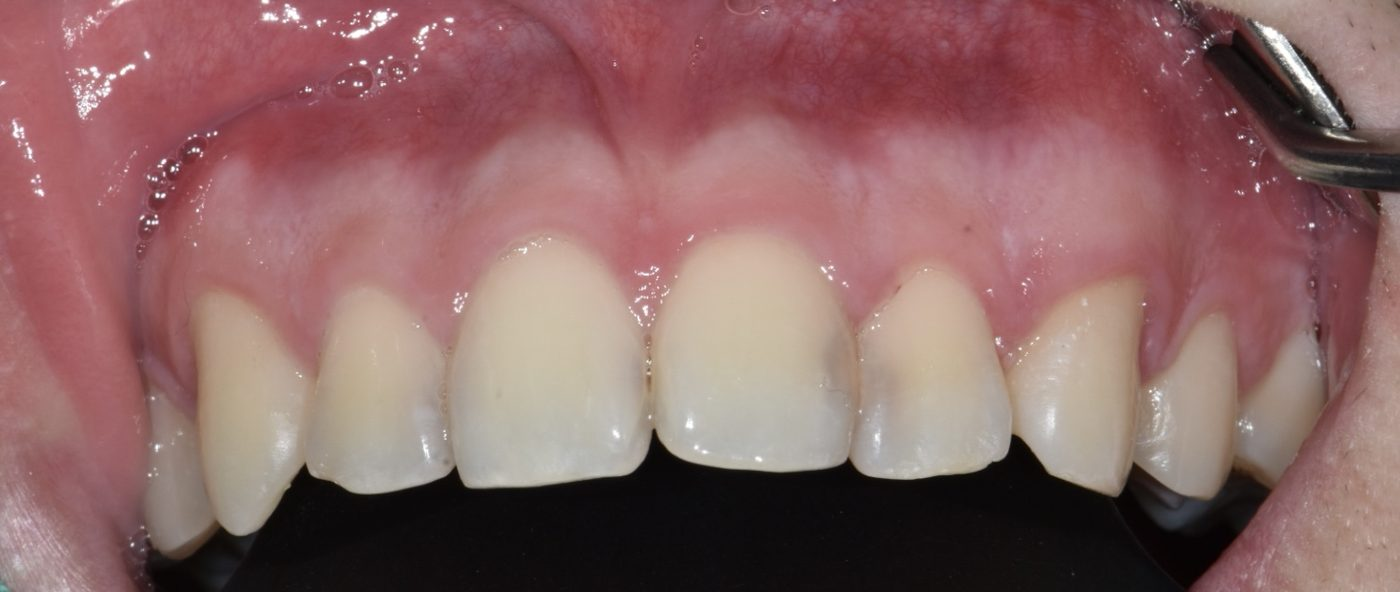
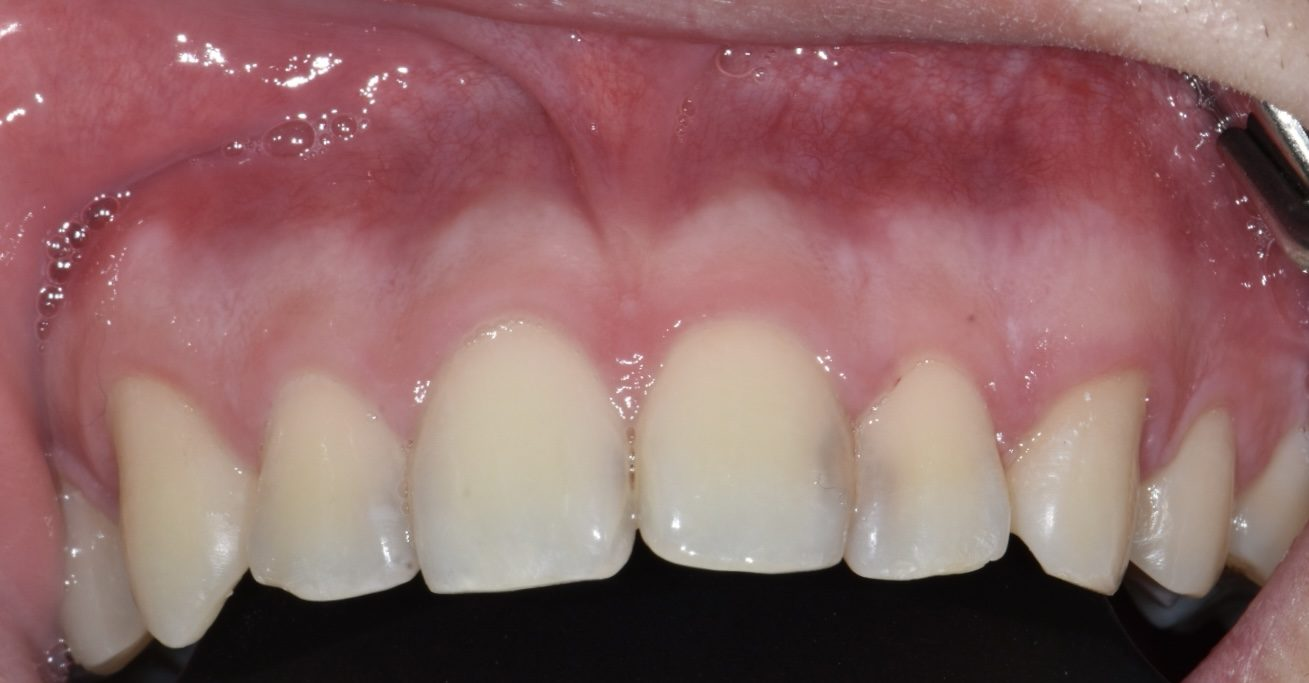
두 번째 증례 사진 교체, 틀니는 국군병원 연결로 변경
Claude-Session: https://claude.ai/code/session_01R7kTzugY8281QtGopL2eK7

diff --git a/index.html b/index.html
@@ -360,8 +360,8 @@
           <div class="feature__cases">
             <figure><img src="photos/caries-1-before.jpg" alt="치료 전: 상악 전치부 우식" width="1220" height="752" loading="lazy"><figcaption>치료 전</figcaption></figure>
             <figure><img src="photos/caries-1-after.jpg" alt="치료 후: 레진 수복 완료" width="1400" height="852" loading="lazy"><figcaption>치료 후</figcaption></figure>
-            <figure><img src="photos/caries-2-before.jpg" alt="치료 전: 상악 측절치 우식과 변색" width="1400" height="592" loading="lazy"><figcaption>치료 전</figcaption></figure>
-            <figure><img src="photos/caries-2-after.jpg" alt="치료 후: 레진 수복으로 형태와 색 회복" width="1400" height="687" loading="lazy"><figcaption>치료 후</figcaption></figure>
+            <figure><img src="photos/caries-2-before.jpg" alt="치료 전: 상악 측절치 우식" width="1311" height="680" loading="lazy"><figcaption>치료 전</figcaption></figure>
+            <figure><img src="photos/caries-2-after.jpg" alt="치료 후: 레진 수복으로 형태 회복" width="1353" height="760" loading="lazy"><figcaption>치료 후</figcaption></figure>
           </div>
           <p class="feature__credit small muted">Courtesy of Dr. Lee Won Woo</p>
           <div class="feature__row feature__row--full">
@@ -395,10 +395,10 @@
             <figure aria-hidden="true"><svg><use href="#d-crown"/></svg></figure>
             <ul>
               <li>크라운, 인레이·온레이 수복</li>
-              <li>브릿지 및 부분·완전 틀니</li>
+              <li>브릿지</li>
               <li>근관치료 후 치아의 보철 수복</li>
               <li>파절된 보철물의 수리와 재제작</li>
-              <li>임플란트는 국군병원으로 연결</li>
+              <li>틀니와 임플란트는 국군병원으로 연결</li>
             </ul>
           </div>
         </article>
@@ -454,7 +454,7 @@
         <details class="bar" data-reveal style="--i:4">
           <summary>군병원으로 보내는 치료</summary>
           <div class="bar__panel">
-            <dl><dt>임플란트</dt><dd>국군병원</dd><dt>교정</dt><dd>국군병원</dd><dt>전신마취가 필요한 수술</dt><dd>국군병원</dd></dl>
+            <dl><dt>임플란트 · 틀니</dt><dd>국군병원</dd><dt>교정</dt><dd>국군병원</dd><dt>전신마취가 필요한 수술</dt><dd>국군병원</dd></dl>
             <p>그 밖의 치료는 의무대 안에서 합니다. 의료진의 판단이나 환자의 요청에 따라 국군병원으로 연결하며, 외진 일정은 이곳에서 잡아 드립니다.</p>
           </div>
         </details>
@@ -506,7 +506,7 @@
         <p data-reveal style="--i:4"><b>훈련 중인데 치아가 아픕니다.</b> 훈련장 의무병에게 말하세요. 응급이면 바로 연락이 오고, 아니면 훈련 뒤 가장 빠른 시간으로 잡아 드립니다.</p>
         <p data-reveal style="--i:5"><b>사랑니는 꼭 빼야 하나요?</b> 아닙니다. 바르게 나고 닦을 수 있으면 둡니다. 자주 붓거나 옆 치아를 밀면 빼기를 권합니다.</p>
         <p data-reveal style="--i:6"><b>발치 후 훈련은 어떻게 되나요?</b> 보통 이틀에서 사흘 동안 격한 훈련과 체력단련을 피해야 합니다. 소견서를 써 드리니 소속 부대에 내세요.</p>
-        <p data-reveal style="--i:7"><b>크라운이나 임플란트도 되나요?</b> 크라운, 브릿지, 틀니는 여기서 합니다. 임플란트와 교정은 국군병원 외진으로 연결하고 일정을 잡아 드립니다.</p>
+        <p data-reveal style="--i:7"><b>크라운이나 임플란트도 되나요?</b> 크라운과 브릿지는 여기서 합니다. 틀니, 임플란트, 교정은 국군병원 외진으로 연결하고 일정을 잡아 드립니다.</p>
         <p data-reveal style="--i:8"><b>전역이 얼마 안 남았는데 치료를 시작해도 되나요?</b> 전역일을 말해 주세요. 남은 기간 안에 끝낼 수 있는 치료부터 하고, 나머지는 소견서를 써 드립니다.</p>
         <p data-reveal style="--i:9"><b>스케일링은 얼마나 자주 받나요?</b> 여섯 달에 한 번이 기준입니다. 잇몸에서 피가 나면 더 일찍 오세요.</p>
       </div>

diff --git a/clinic.html b/clinic.html
@@ -312,8 +312,8 @@
           <div class="feature__cases">
             <figure><img src="photos/caries-1-before.jpg" alt="치료 전: 상악 전치부 우식" width="1220" height="752" loading="lazy"><figcaption>치료 전</figcaption></figure>
             <figure><img src="photos/caries-1-after.jpg" alt="치료 후: 레진 수복 완료" width="1400" height="852" loading="lazy"><figcaption>치료 후</figcaption></figure>
-            <figure><img src="photos/caries-2-before.jpg" alt="치료 전: 상악 측절치 우식과 변색" width="1400" height="592" loading="lazy"><figcaption>치료 전</figcaption></figure>
-            <figure><img src="photos/caries-2-after.jpg" alt="치료 후: 레진 수복으로 형태와 색 회복" width="1400" height="687" loading="lazy"><figcaption>치료 후</figcaption></figure>
+            <figure><img src="photos/caries-2-before.jpg" alt="치료 전: 상악 측절치 우식" width="1311" height="680" loading="lazy"><figcaption>치료 전</figcaption></figure>
+            <figure><img src="photos/caries-2-after.jpg" alt="치료 후: 레진 수복으로 형태 회복" width="1353" height="760" loading="lazy"><figcaption>치료 후</figcaption></figure>
           </div>
           <p class="feature__credit small muted">Courtesy of Dr. Lee Won Woo</p>
           <div class="feature__row feature__row--full">
@@ -347,10 +347,10 @@
             <figure aria-hidden="true"><svg><use href="#d-crown"/></svg></figure>
             <ul>
               <li>크라운, 인레이·온레이 수복</li>
-              <li>브릿지 및 부분·완전 틀니</li>
+              <li>브릿지</li>
               <li>근관치료 후 치아의 보철 수복</li>
               <li>파절된 보철물의 수리와 재제작</li>
-              <li>임플란트는 국군병원으로 연결</li>
+              <li>틀니와 임플란트는 국군병원으로 연결</li>
             </ul>
           </div>
         </article>
@@ -376,6 +376,7 @@
       <p data-reveal style="--i:1">아래 치료는 국군병원 치과에서 시행합니다. 진단과 의뢰서, 외진 일정은 이곳에서 잡아 드립니다.</p>
       <ul class="plain" data-reveal>
         <li>임플란트</li>
+        <li>틀니</li>
         <li>교정 상담과 교정 치료</li>
         <li>전신마취가 필요한 수술</li>
         <li>의료진의 판단 또는 환자의 요청이 있는 경우</li>
